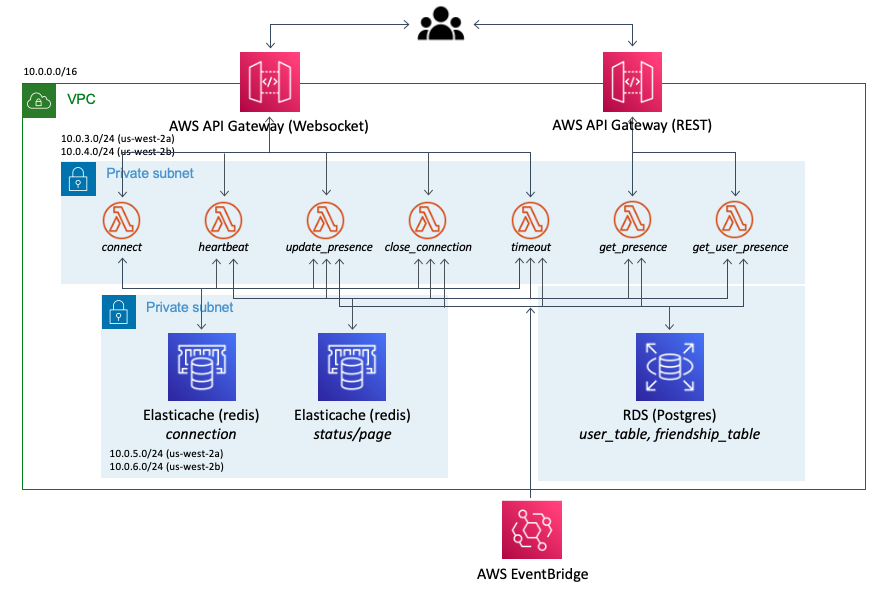
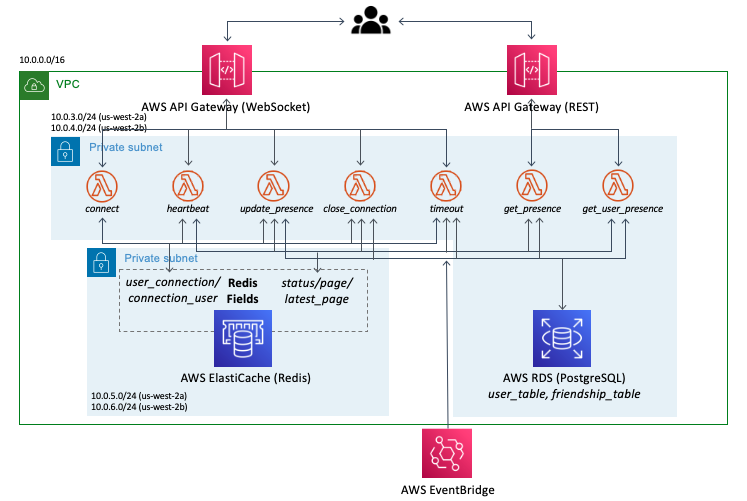
Updated REAMDE images

diff --git a/README_KO.md b/README_KO.md
@@ -57,9 +57,9 @@ Redis 클러스터로 `presence_user_connection`, `presence_connection_user`, `s
 
 * `timeout`는 AWS Eventbridge에 의해 3분에 한 번 실행됩니다. 오프라인 사용자가 발견되면 Redis에서 해당 사용자와 관련된 값을 지웁니다.
 
-* `get_presence`는 사용자의 모든 친구의 현재 활동 상태를 제공하는 REST API가 실행합니다.
+* `get_presence`는 사용자의 모든 친구의 현재 활동 상태를 제공하는 함수로 REST API가 실행합니다.
 
-* `get_user_presence`는 사용자의 현재 활동 상태를 제공하는 REST API가 실행합니다.
+* `get_user_presence`는 사용자의 현재 활동 상태를 제공하는 함수로 REST API가 실행합니다.
 
 ### AWS API Gateway
 
